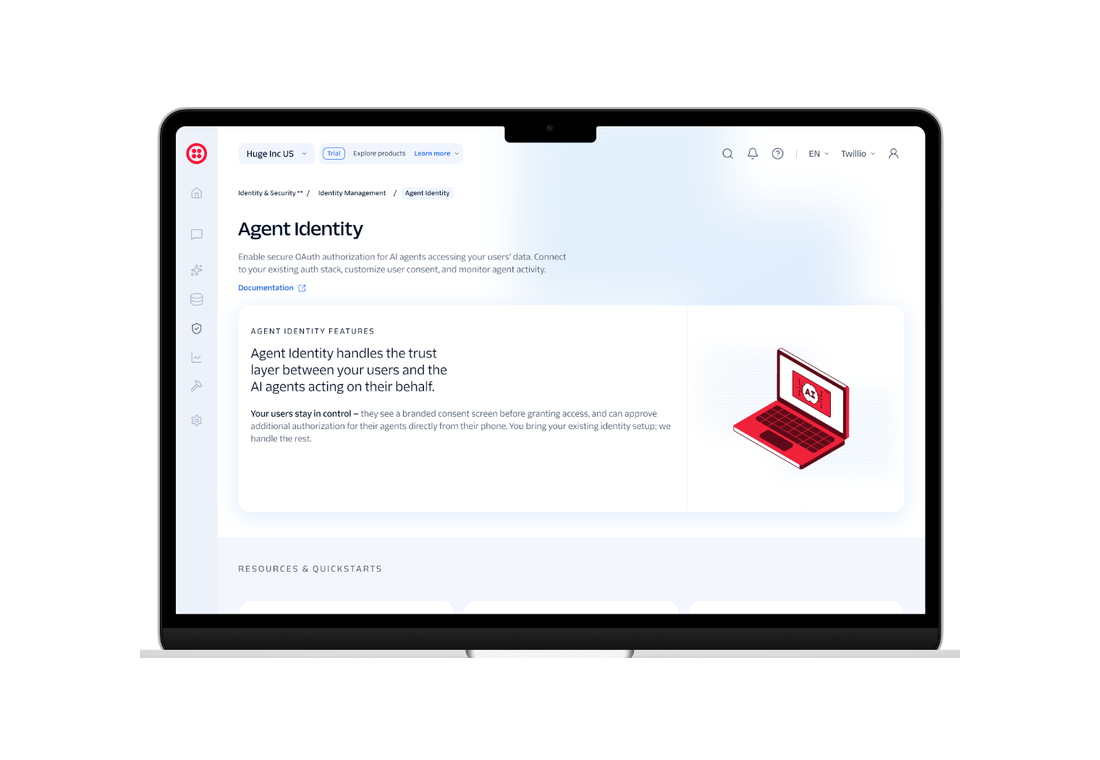
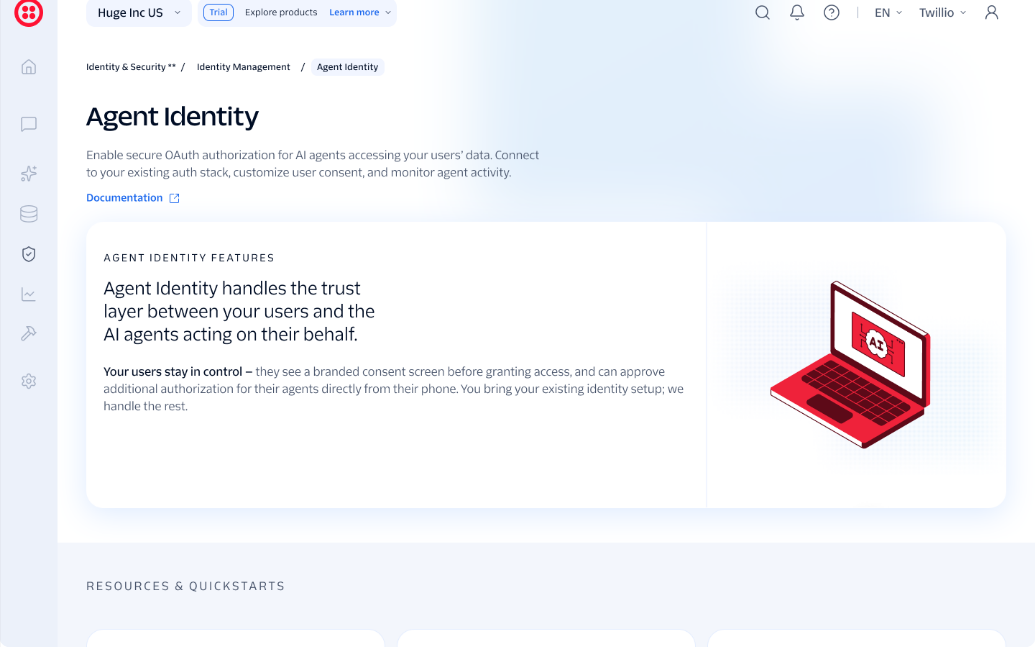
Remove laptop frame, show hero content directly as the thumbnail
Cropped to just the inner screen content (measured the exact bezel-
to-content boundary in pixels rather than eyeballing it), trimmed a
stray webcam-notch remnant that bled into the top edge, and scaled
Stytch's crop up ~11% to match Agent Identity's content size. Cards
now show a normal full-bleed content screenshot instead of a
laptop-mock illustration.

diff --git a/index.html b/index.html
@@ -30,8 +30,8 @@
   .card:hover{border-color:var(--ink-45); box-shadow:0 12px 28px rgba(23,22,27,.08);}
   .card a{display:block; text-decoration:none; color:inherit;}
   .card-thumb{
-    display:block; width:100%; aspect-ratio:1100/760; object-fit:contain;
-    border-bottom:1px solid var(--line);
+    display:block; width:100%; aspect-ratio:1035/646; object-fit:cover;
+    object-position:top; border-bottom:1px solid var(--line);
     background:#fff;
   }
   .card-body{padding:22px 24px 24px;}
